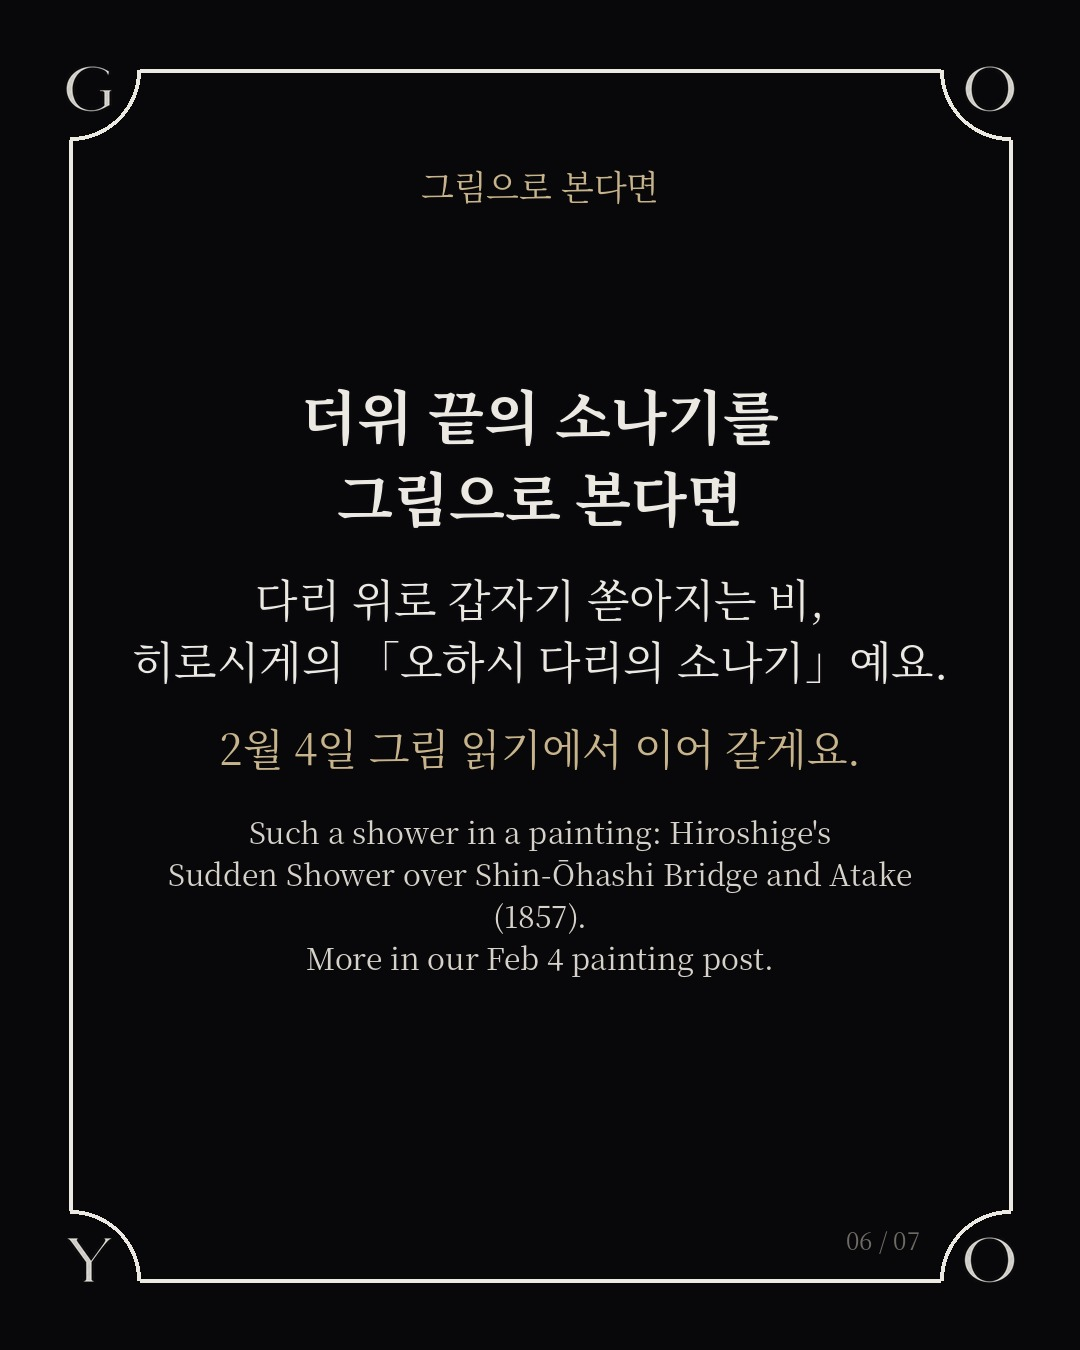
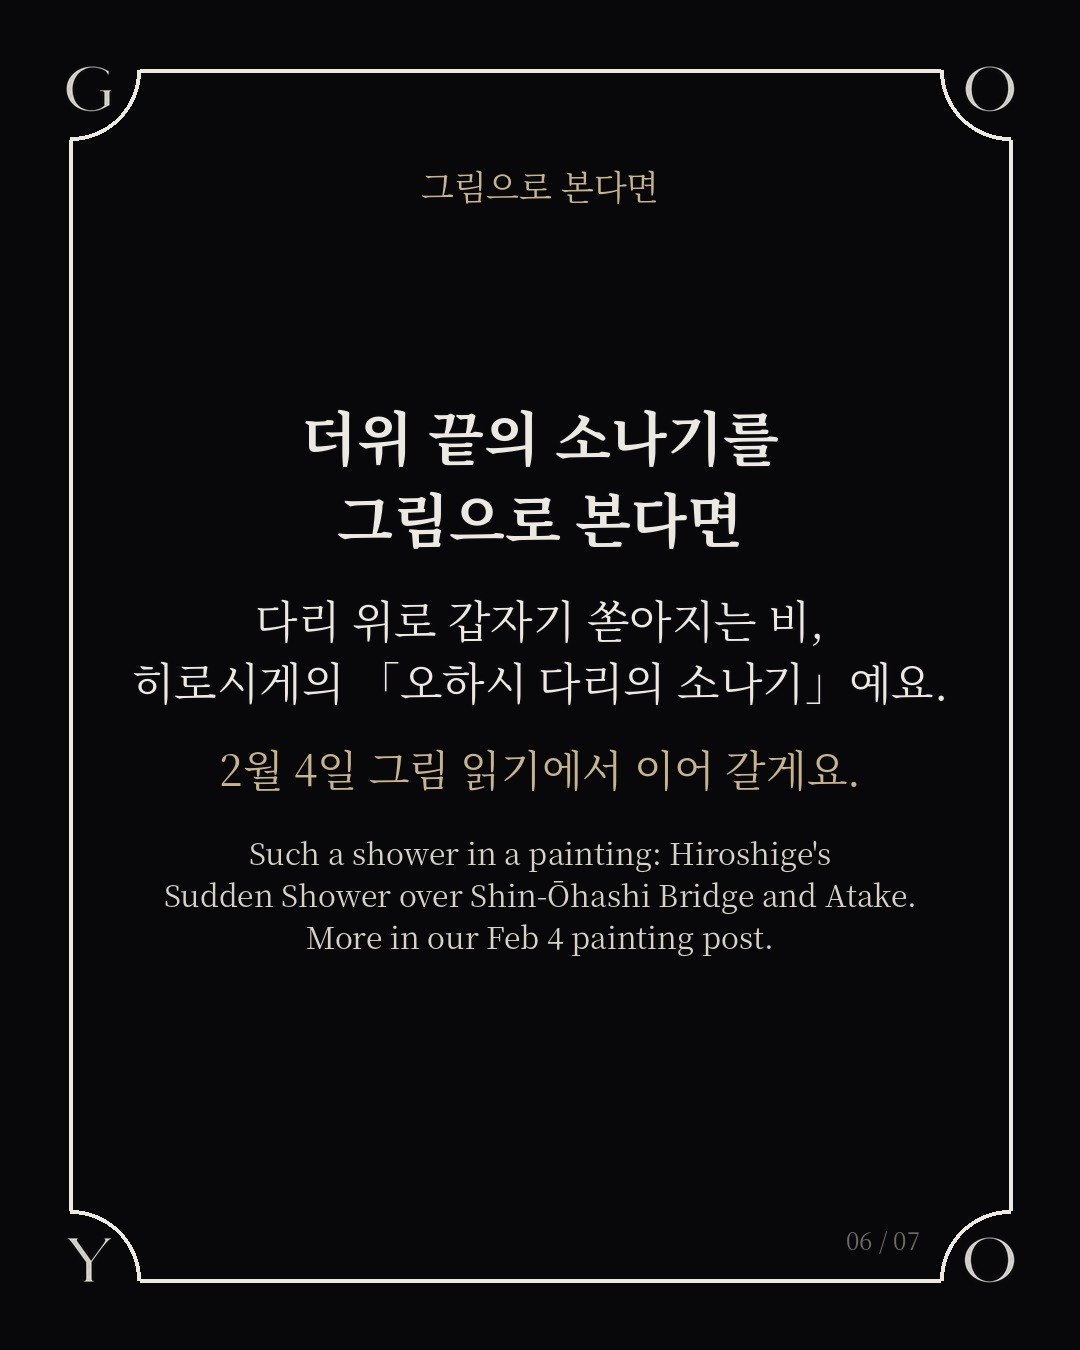
1/11 줄바꿈
Claude-Session: https://claude.ai/code/session_01YKKUv5W4Y1G1o2h4KJ6tQ6

Changed region(s): [[0.1222, 0.4356, 0.8556, 0.7156], [0.275, 0.28, 0.7333, 0.4044], [0.7944, 0.4667, 0.8556, 0.5289]]

diff --git a/jeongmi/build.py b/jeongmi/build.py
@@ -733,7 +733,7 @@ P['0111'] = dict(
   S([T('더위 끝의 소나기를\n그림으로 본다면', 58, bold=True, gap=30),
      T('다리 위로 갑자기 쏟아지는 비,\n히로시게의 「오하시 다리의 소나기」예요.', 44, gap=26),
      T('2월 4일 그림 읽기에서 이어 갈게요.', 42, GOLD, gap=34),
-     T('Such a shower in a painting: Hiroshige\'s\nSudden Shower over Shin-Ōhashi Bridge and Atake (1857).\nMore in our Feb 4 painting post.', 30, EN, gap=0)], tag='그림으로 본다면'),
+     T('Such a shower in a painting: Hiroshige\'s\nSudden Shower over Shin-Ōhashi Bridge and Atake.\nMore in our Feb 4 painting post.', 30, EN, gap=0)], tag='그림으로 본다면'),
   S([T('다섯 가지 고요', 56, bold=True, gap=10), T('임수 편', 96, bold=True, gap=34),
      T('넓게 고여 천천히 흐르는\n큰 물 같은 소리예요.', 52, gap=24), T('오늘은 『Morning Haze』를 골랐어요.', 42, gap=30),
      T('음악은 프로필 링크에서', 46, GOLD, gap=30),
